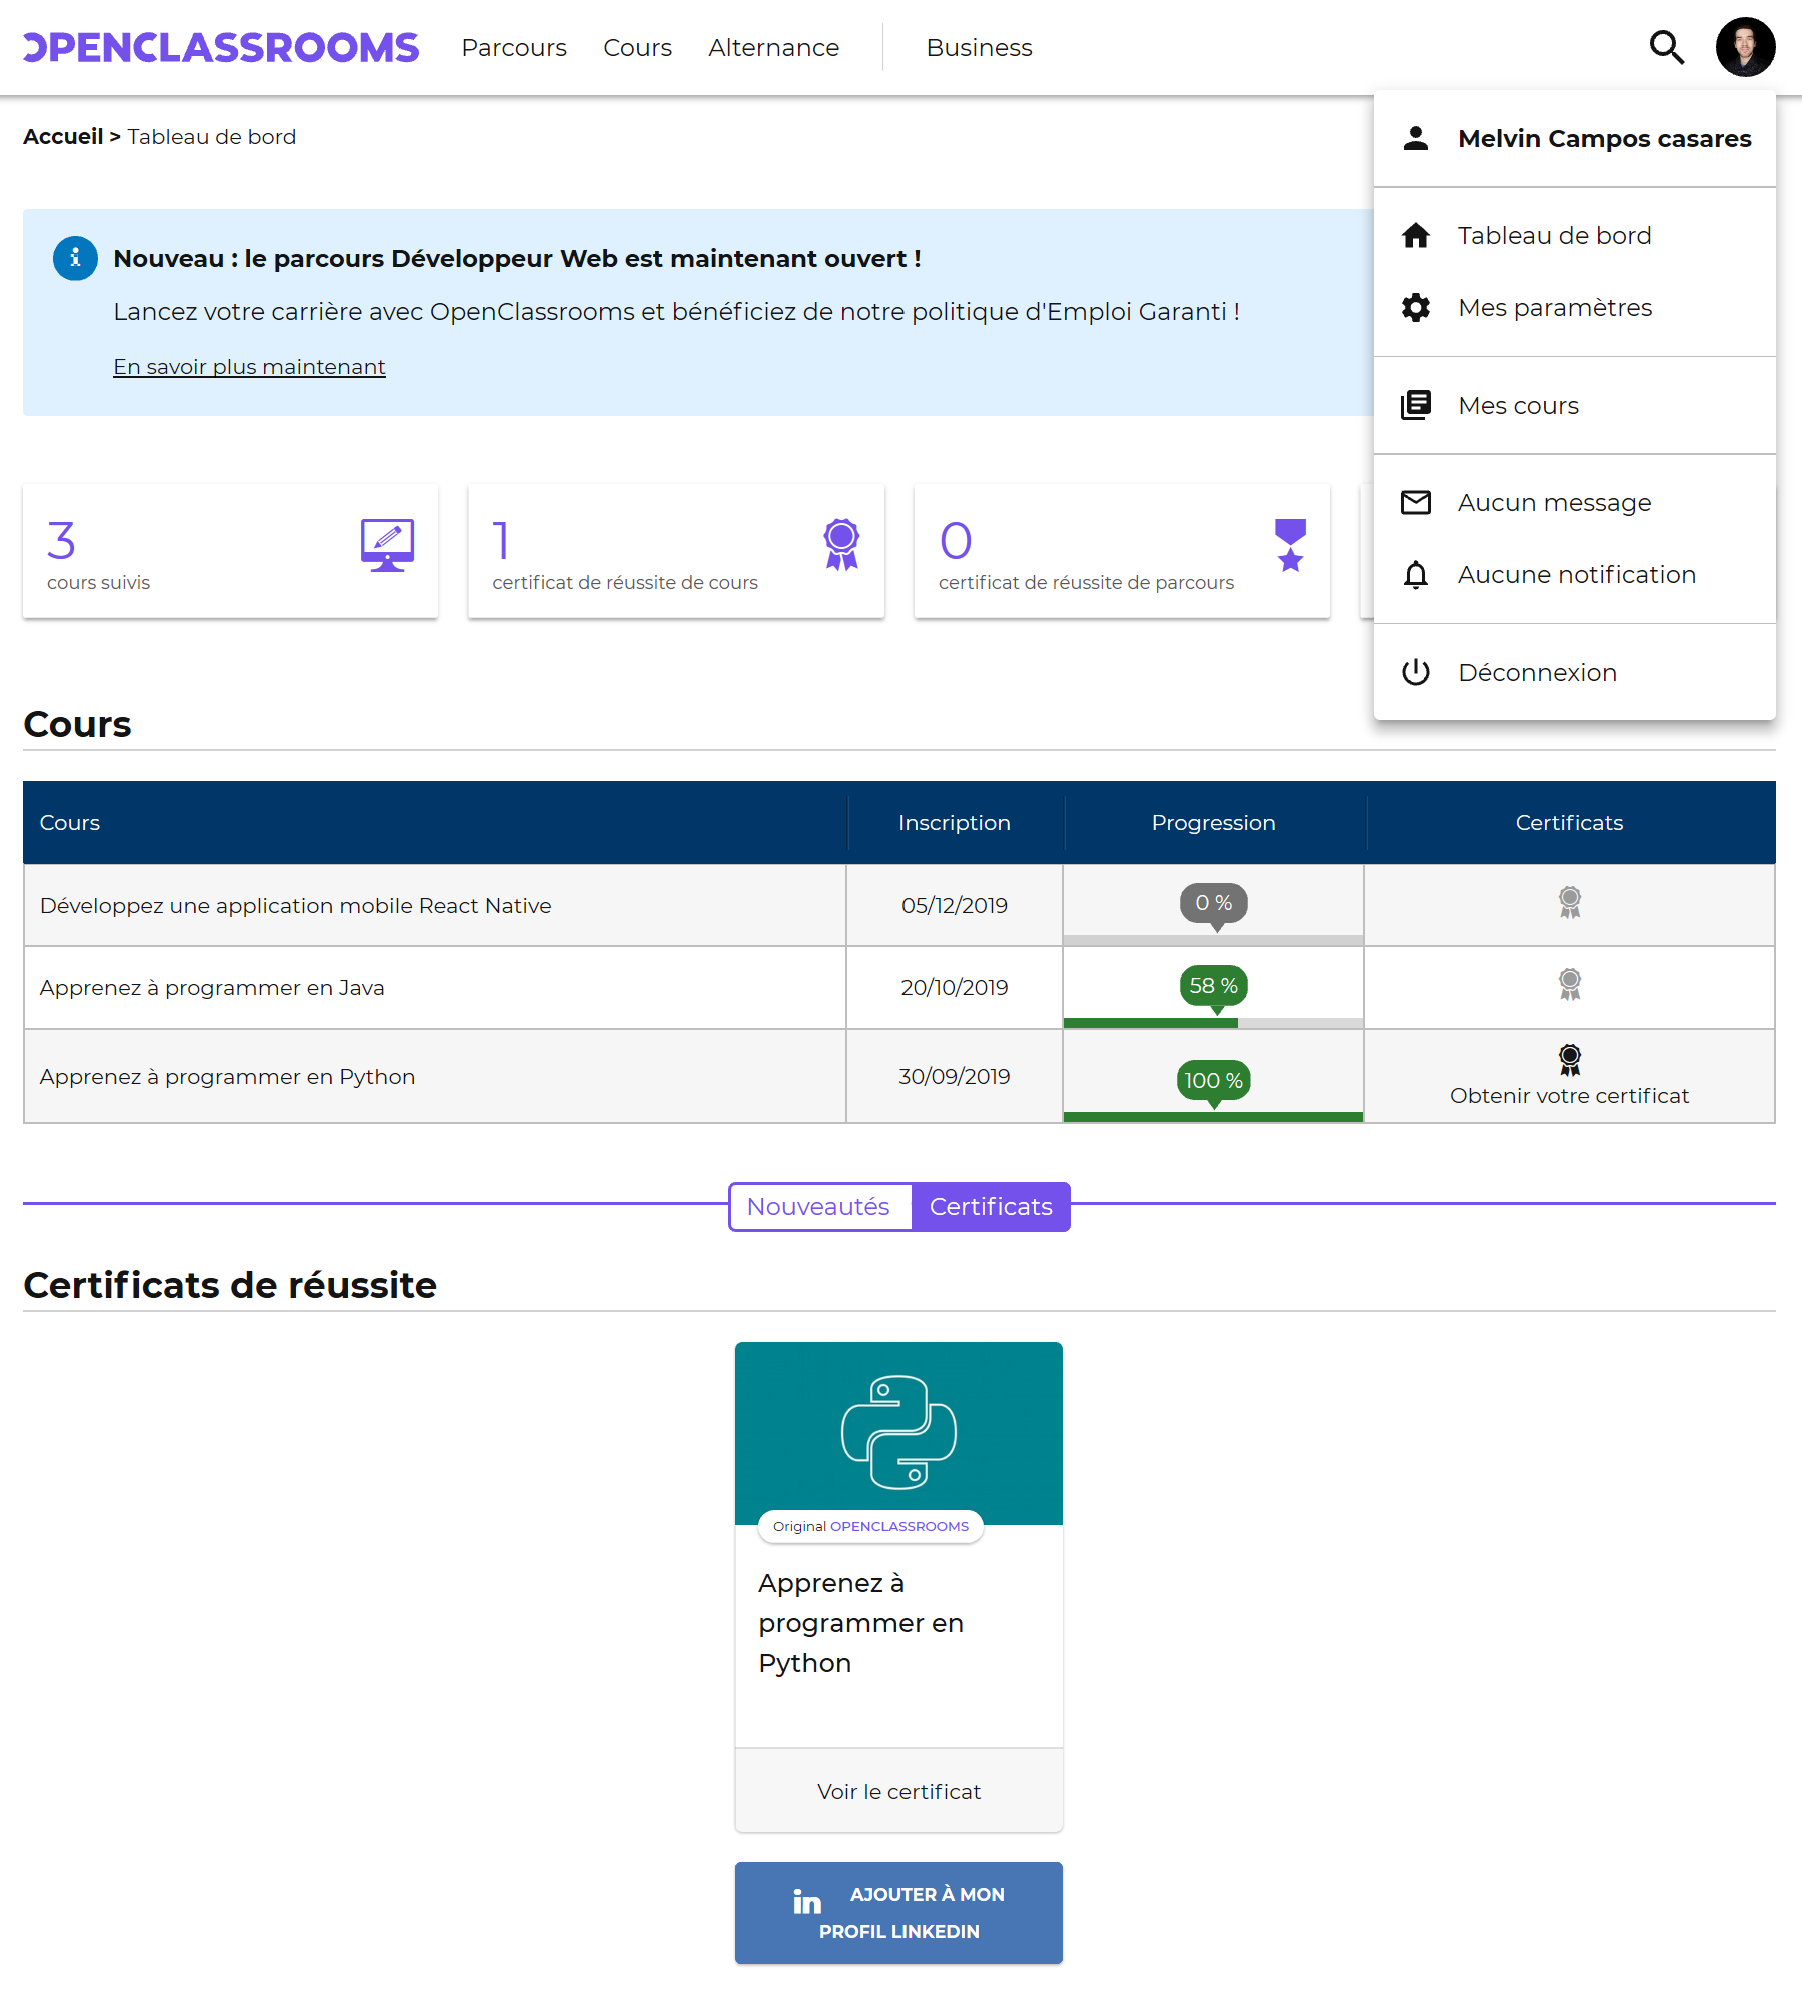
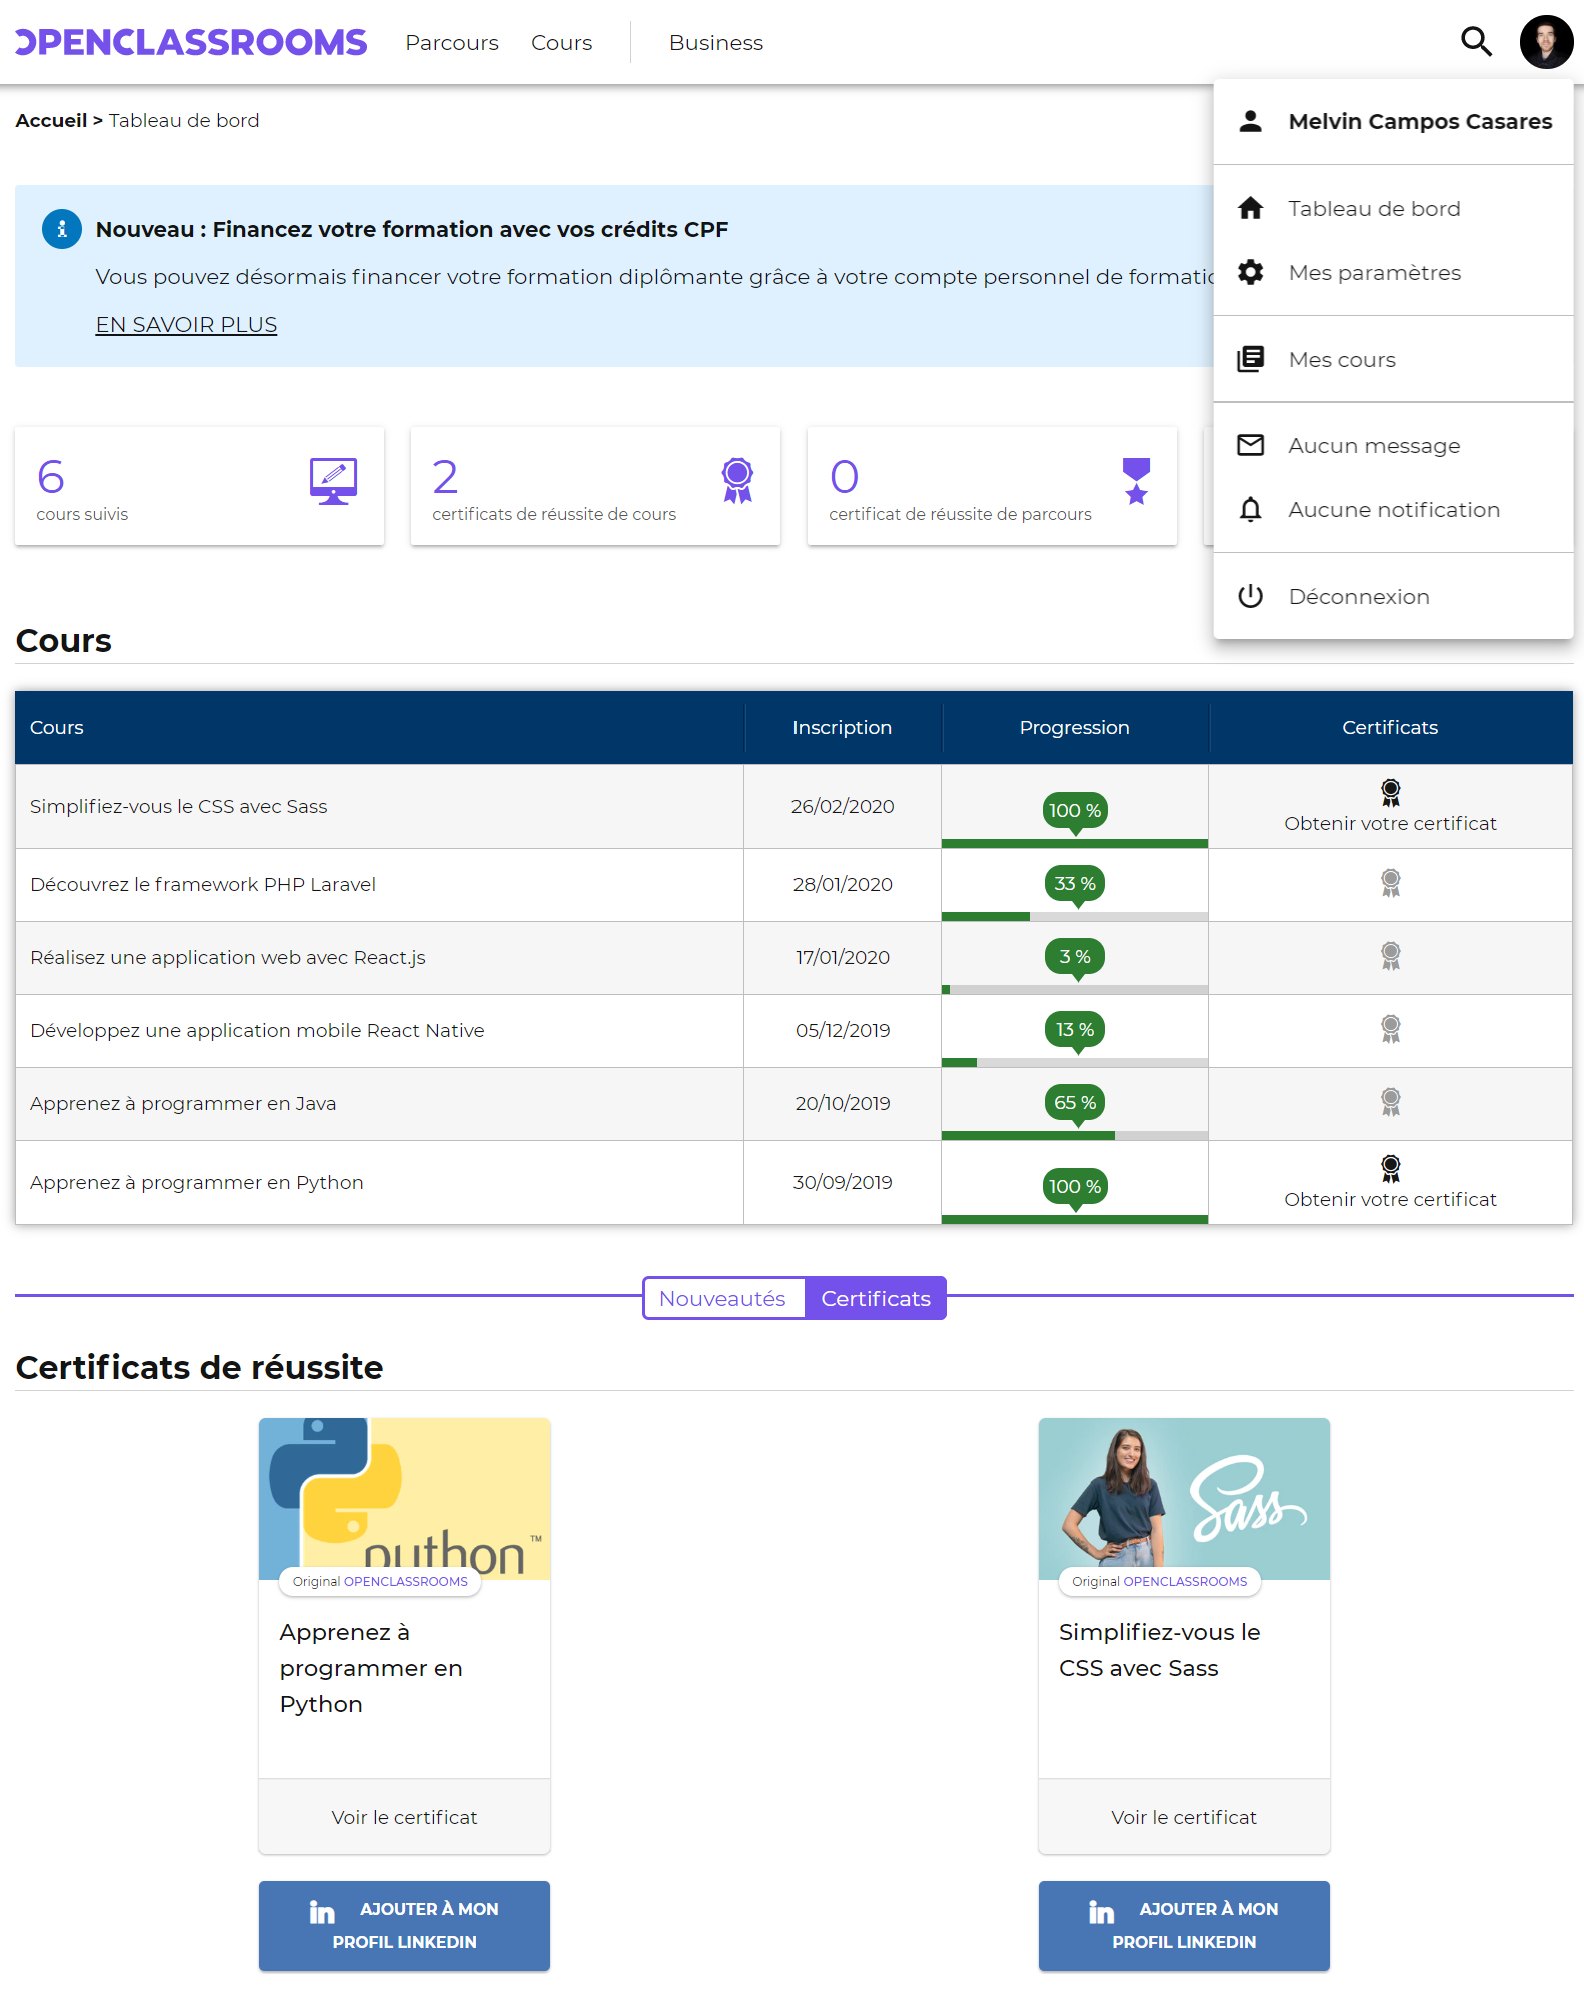
Add 2020 Openclassrooms learning SASS

diff --git a/details/2020-ocr.html b/details/2020-ocr.html
@@ -6,7 +6,7 @@
 <head>
   <meta charset="utf-8">
   <meta http-equiv="X-UA-Compatible" content="IE=edge">
-  <title>Openclassrooms formation Python (2019) - Melvin Campos Casares</title>
+  <title>Openclassrooms formation SASS (2020) - Melvin Campos Casares</title>
   <meta name="description" content="Portfolio de Melvin Campos Casares">
   <meta name="viewport" content="width=device-width, initial-scale=1">
 
@@ -26,29 +26,32 @@
 
   <header>
     <button type="button" class="btn btn-light"><a href="../index.html#projects"><i class="fas fa-chevron-left"></i> Retour au Portfolio</a></button>
-    <h1>2019 : Openclassrooms - Formation en Python</h1>
+    <h1>2019 : Openclassrooms - Formation en SASS</h1>
   </header>
 
   <article class="divInfo">
-    <p class="info"><i class="far fa-clock"> 40h</i> | <span class="label label-default" style="font-size: 12px;">FORMATION</span>
+    <p class="info"><i class="far fa-clock"> 15h</i> | <span class="label label-default" style="font-size: 12px;">FORMATION</span>
     <p><img src="../img/openclassrooms.jpg" alt="Logo de Openclassrooms" class="infoImg"></p>
   </article>
 
   <article>
     <div class="jobDetails">
       <p>Formation avec certification (si compte Premium).
-        <br><strong><em>Durée réelle :</em></strong> 40h
+        <br><strong><em>Durée réelle :</em></strong> 15h
         <br><strong><em>Durée justifiée (EPHEC) :</em></strong> 10h</p>
     </div>
     <ul class="ulTitle">
-      <li>Apprenez à programmer en Python</li>
+      <li>Simplifiez-vous le CSS avec Sass</li>
     </ul>
-    <h2>Apprenez à programmer en Python</h2>
-    <p>Je me suis inscrit à cette formation le 30 septembre et ait réellement commencé tout début octobre.
-      <br>En date du 12 décembre, j'ai reçu ma certification de réussite après 2 semaines de délai pour la correction des activités.</p>
+    <h2>Simplifiez-vous le CSS avec Sass</h2>
+    <p>Je me suis inscrit à cette formation le 26 février et l'ai terminé le 28 février.
+      <br>Cette formation à été suivie de manière rapide étant donné que je connais déjà assez bien le CSS et ait déjà cherché à comprendre les fondements de SASS lorsque j'ai commencé la création de ce Portfolio.</p>
     <p>Cette formation était fort intéressante et enrichissante.
-      <br>J'avais un intérêt particulier depuis un certain temps d'apprendre ce langage, tant pour mon sujet de TFE que pour le projet d'intégration et encore quelques idées de projets personnels.
-      <br>En effet, ayant pris une Raspberry Pi (modèle 4 B), Python est un langage de prédilection à combiner éventuellement avec des modules à connecter.</p>
+      <br>J'avais un intérêt particulier depuis un certain temps d'apprendre cette manière de programmer en CSS, tant pour mon générer le CSS de mon portfolio que pour quelques idées de projets personnels.
+      <br>Le gros avantage de cette formation elle l'apprentissage de SASS, de la méthodologie BEM et du Pattern 7-1, tout trois très pratique pour obtenir un code CSS plus structuré et plus clair.</p>
+    <p>Etant donné l'utilisation de mixins dans une partie du code SASS utilisé pour ce portfolio, il est possible de jeter un oeil au code SASS de ce site web sur <a href="https://github.com/melvinmajor/portfolio">GitHub en cliquant ici</a>.
+      <br>Pour voir à quoi ressemble un code SASS court et simple de compréhension, veuillez jeter un oeil à ces 2 parties utilisée pour ce portfolio :</p>
+    <script src="https://gist-it.appspot.com/http://github.com/melvinmajor/portfolio/blob/master/sass/_banner.scss"></script>
   </article>
 
   <aside>

diff --git a/index.html b/index.html
@@ -148,7 +148,7 @@
                             <ul>
                               <li><span class="label label-default">BÉNÉVOLAT</span> | <i class="far fa-clock"> <strong>38h</strong></i> | <em>CHE<sup>2</sup></em></li>
                               <li><span class="label label-default">DÉVELOPPEMENT</span> | <i class="far fa-clock"> <strong>48h</strong></i> | <em>Raspberry Pi (log2ram), Portfolio, CEVV, Dreamnet SPRL</em></li>
-                              <li><span class="label label-default">FORMATION</span> | <i class="far fa-clock"> <strong>54h</strong></i> | <em>Openclassrooms, Dreamnet SPRL (RGPD), Fun MOOC</em></li>
+                              <li><span class="label label-default">FORMATION</span> | <i class="far fa-clock"> <strong>69h</strong></i> | <em>Openclassrooms, Dreamnet SPRL (RGPD), Fun MOOC</em></li>
                               <li><span class="label label-default">HARDWARE</span> | <i class="far fa-clock"> <strong>3h</strong></i> | <em>Montage & configuration de PC</em></li>
                               <li><span class="label label-default">JOB</span> | <i class="far fa-clock"> <strong>681h</strong></i> | <em>Intel, LG, Microsoft, Asus</em></li>
                               <li><span class="label label-default">NETWORKING</span> | <i class="far fa-clock"> <strong>8h30</strong></i> | <em>CIRB & Ecotrail '19, EPHEC Speed Dating Stage '19, EPHEC Open Day '19</em></li>
@@ -168,6 +168,19 @@
                                             <br>Membre effectif du conseil social, conseil technique et conseil du CIACO.
                                             <br>Aide à l'organisation et gestion des évènements organisé par le CHE<sup>2</sup>
                                             <br>Une des personnes en charge du pull de l'EPHEC 19/20.</p>
+                                    </div>
+                                </div></a>
+                            </div>
+                        </div>
+                        <div class="col-md-4 col-sm-6">
+                            <div class="project-item">
+                                <img src="img/openclassrooms.jpg" alt="Logo de Openclassrooms">
+                                <p><i class="far fa-clock"> 15h</i> | <span class="label label-default">FORMATION</span></p>
+                                <a href="details/2020-ocr.html"><div class="project-hover">
+                                    <div class="inside">
+                                        <h5>Openclassrooms (2020) : Formation en SASS</h5>
+                                        <p>"Simplifiez-vous le CSS avec Sass" :
+                                            <br>Formation de 15h avec certification (si compte Premium).</p>
                                     </div>
                                 </div></a>
                             </div>
@@ -289,7 +302,7 @@
                                         <h5>Création du portfolio</h5>
                                         <p>Gestion du site et hébergement en tant que sous-domaine.
                                             <br>Système de backup via GitHub.
-                                            <br>HTML, CSS, JavaScript.</p>
+                                            <br>HTML, CSS + SASS, JavaScript.</p>
                                     </div>
                                 </div>
                             </div>
